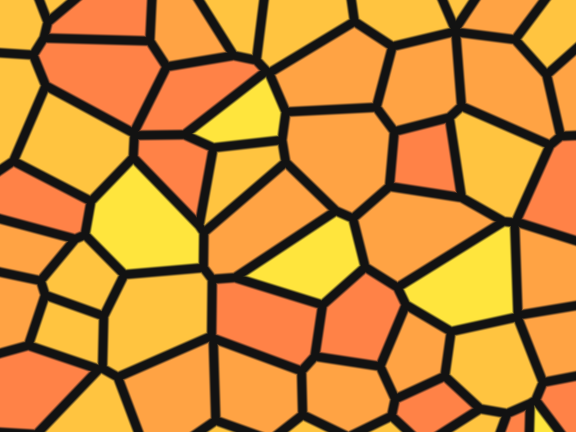
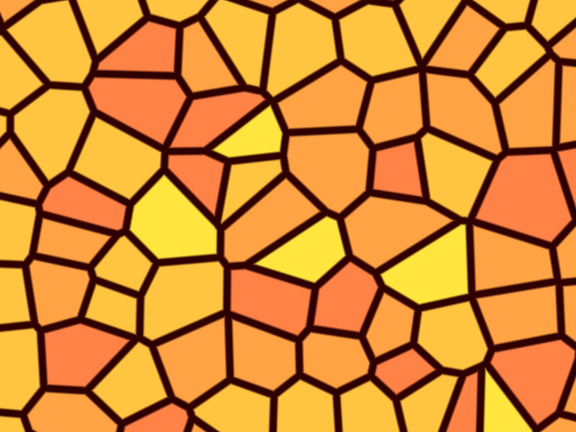
nit

diff --git a/docs/src/home-shaders.ts b/docs/src/home-shaders.ts
@@ -165,14 +165,14 @@ export const homeShaders = [
     image: neuroNoiseImg,
     url: '/neuro-noise',
     ShaderComponent: NeuroNoise,
-    shaderConfig: { ...neuroNoisePresets[0].params, scale: 0.6, frame: 800 },
+    shaderConfig: { ...neuroNoisePresets[0].params, scale: 0.6, frame: 1500, offsetX: -0.17 },
   },
   {
     name: 'perlin',
     url: '/perlin-noise',
     ShaderComponent: PerlinNoise,
     image: perlinNoiseImg,
-    shaderConfig: { ...perlinNoisePresets[0].params, scale: 1.3, speed: 0.2 },
+    shaderConfig: { ...perlinNoisePresets[0].params, scale: 1, speed: 0.2 },
   },
   {
     name: 'simplex noise',
@@ -186,7 +186,7 @@ export const homeShaders = [
     url: '/voronoi',
     ShaderComponent: Voronoi,
     image: voronoiImg,
-    shaderConfig: { ...voronoiPresets[0].params, scale: 0.5 },
+    shaderConfig: { ...voronoiPresets[0].params, scale: 0.4 },
   },
   {
     name: 'pulsing border',

diff --git a/docs/src/components/shader-item.tsx b/docs/src/components/shader-item.tsx
@@ -52,7 +52,7 @@ export function ShaderItem({
                   position: 'absolute',
                   inset: 0,
                   // Some shaders are transparent, adding a background to not see the preview image through
-                  background: 'white',
+                  background: 'black',
                   ...style,
                 }}
                 {...shaderConfig}

diff --git a/packages/shaders-react/src/shaders/voronoi.tsx b/packages/shaders-react/src/shaders/voronoi.tsx
@@ -24,11 +24,12 @@ export const defaultPreset: VoronoiPreset = {
     frame: 0,
     colors: ['#ff8247', '#ffe53d'],
     stepsPerColor: 3,
-    colorGlow: '#ff4800',
-    colorGap: '#121212',
+    colorGlow: '#ffffff',
+    colorGap: '#2e0000',
     distortion: 0.4,
     gap: 0.06,
     glow: 0,
+    scale: 0.5,
   },
 };
 

diff --git a/packages/shaders-react/src/shaders/neuro-noise.tsx b/packages/shaders-react/src/shaders/neuro-noise.tsx
@@ -24,8 +24,8 @@ export const defaultPreset: NeuroNoisePreset = {
     colorFront: '#ffffff',
     colorMid: '#00a2ff',
     colorBack: '#000000',
-    brightness: 0.3,
-    contrast: 0.6,
+    brightness: 0.05,
+    contrast: 0.3,
   },
 };
 
